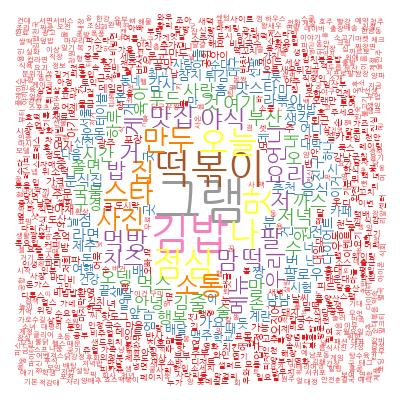
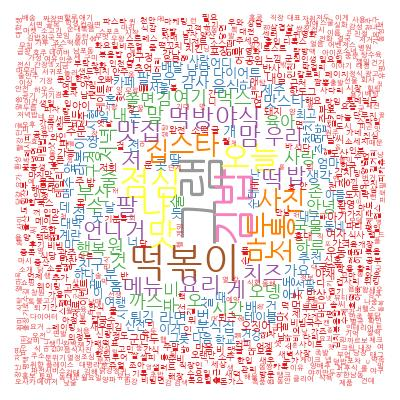
,

diff --git a/What_Do_I_Sell_Today/src/main/webapp/js/food.js b/What_Do_I_Sell_Today/src/main/webapp/js/food.js
@@ -7,13 +7,13 @@ $(function() {
 	$("button").click(function() {
 		var btn = $(this).attr("id");
 		var species = $(this).html();
-/*		$("#progressbar").progressbar({
-			max : total_time,
-			value : current_time
-		});
-		timer = setInterval(refresh_bar, refresh_interval);*/
+		/*		$("#progressbar").progressbar({
+					max : total_time,
+					value : current_time
+				});
+				timer = setInterval(refresh_bar, refresh_interval);*/
 		if (btn == "closeBtn" || btn == "closeBtn2")
-			$("#foodModal").dialog("close");else {
+			$("#foodModal").hide();else {
 			$.ajax({
 				type : 'POST',
 				url : 'foodAreaTitle.do',
@@ -22,8 +22,10 @@ $(function() {
 					"foodtitle" : species
 				},
 				success : function(data) {
-
-					$("#foodModal").dialog();
+					var a = '';
+					a += '<img alt="wordcloud" src="/image/' + data.wordcloud + '.jpeg">';
+					$('#wordcloudImg').html(a);
+					$("#myModal").modal();
 				},
 				error : function(data) {
 					alert("통신실패 : " + data.message);

diff --git a/What_Do_I_Sell_Today/src/main/java/com/wdist/web/controller/FoodController.java b/What_Do_I_Sell_Today/src/main/java/com/wdist/web/controller/FoodController.java
@@ -42,12 +42,10 @@ public class FoodController {
 		System.out.println(foodtitle);
 		new RServe().getWordCloud(foodtitle);
 		System.out.println("이게뭘까?");
-		List<WordCountVO> list = service.getWords(foodtitle);
-		System.out.println(list);
+	//	List<WordCountVO> list = service.getWords(foodtitle);
+	//	System.out.println(list);
 		map.put("result", "success");
-		request.setAttribute("list", list);
-		request.setAttribute("wordcloud", foodtitle);
-		map.put("list", list);
+	//	map.put("list", list);
 		map.put("wordcloud",foodtitle);
 		System.out.println("수행 끝");
 		return new ModelAndView("jsonView", map);
